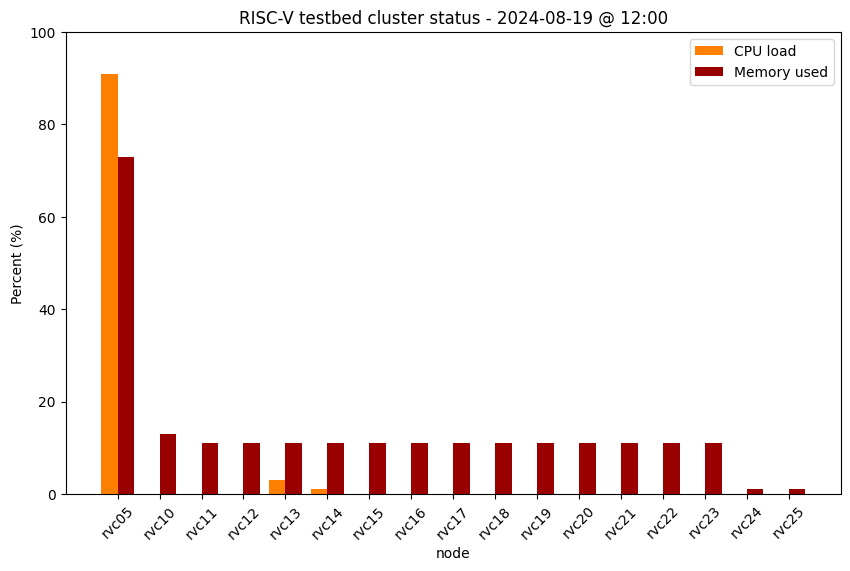
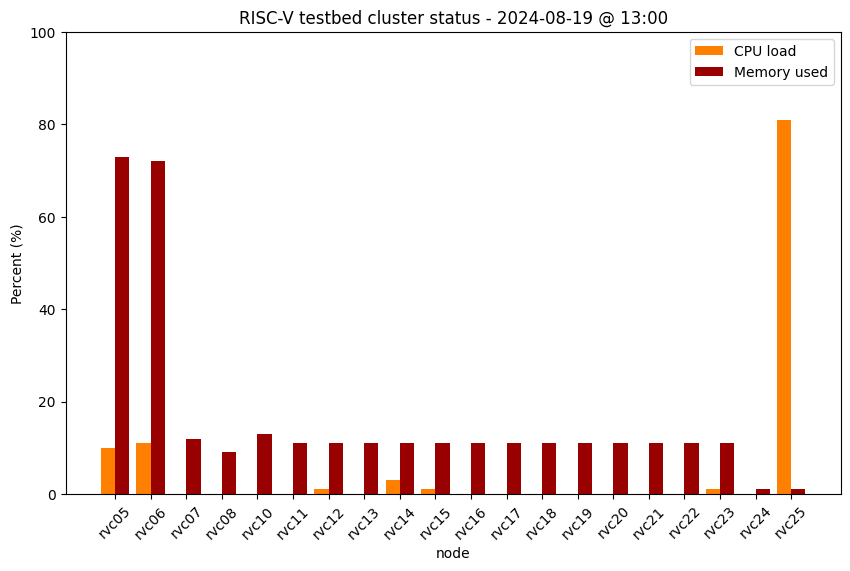
Update cluster status

Changed region(s): [[0.0918, 0.1191, 0.9482, 0.9527], [0.4282, 0.7741, 0.6424, 0.8634]]

diff --git a/status.md b/status.md
@@ -18,9 +18,9 @@ permalink: /status/
 | DongshanNezhaSTU #3 | rvc03 | 1 | 512MB | <img src="/images/amber.png" alt="amber light" width="10"/> offline |
 | DongshanNezhaSTU #4 | rvc04 | 1 | 512MB | <img src="/images/amber.png" alt="amber light" width="10"/> offline |
 | MangoPi MQ-Pro #1 | rvc05 | 1 | 1GB | <img src="/images/on.png" alt="green light" width="10"/> up |
-| MangoPi MQ-Pro #2 | rvc06 | 1 | 1GB | <img src="/images/off.png" alt="red light" width="10"/> down |
-| StarFive VisionFive V1 #1 | rvc07 | 2 | 8GB | <img src="/images/off.png" alt="red light" width="10"/> down |
-| StarFive VisionFive V1 #2 | rvc08 | 2 | 8GB | <img src="/images/off.png" alt="red light" width="10"/> down |
+| MangoPi MQ-Pro #2 | rvc06 | 1 | 1GB | <img src="/images/on.png" alt="green light" width="10"/> up |
+| StarFive VisionFive V1 #1 | rvc07 | 2 | 8GB | <img src="/images/on.png" alt="green light" width="10"/> up |
+| StarFive VisionFive V1 #2 | rvc08 | 2 | 8GB | <img src="/images/on.png" alt="green light" width="10"/> up |
 | StarFive VisionFive V1 #3 | rvc09 | 2 | 8GB | <img src="/images/amber.png" alt="amber light" width="10"/> offline |
 | HiFive Unmatched  | rvc10 | 4 | 16GB | <img src="/images/on.png" alt="green light" width="10"/> up |
 | StarFive VisionFive V2 #1 | rvc11 | 4 | 8GB | <img src="/images/on.png" alt="green light" width="10"/> up |
